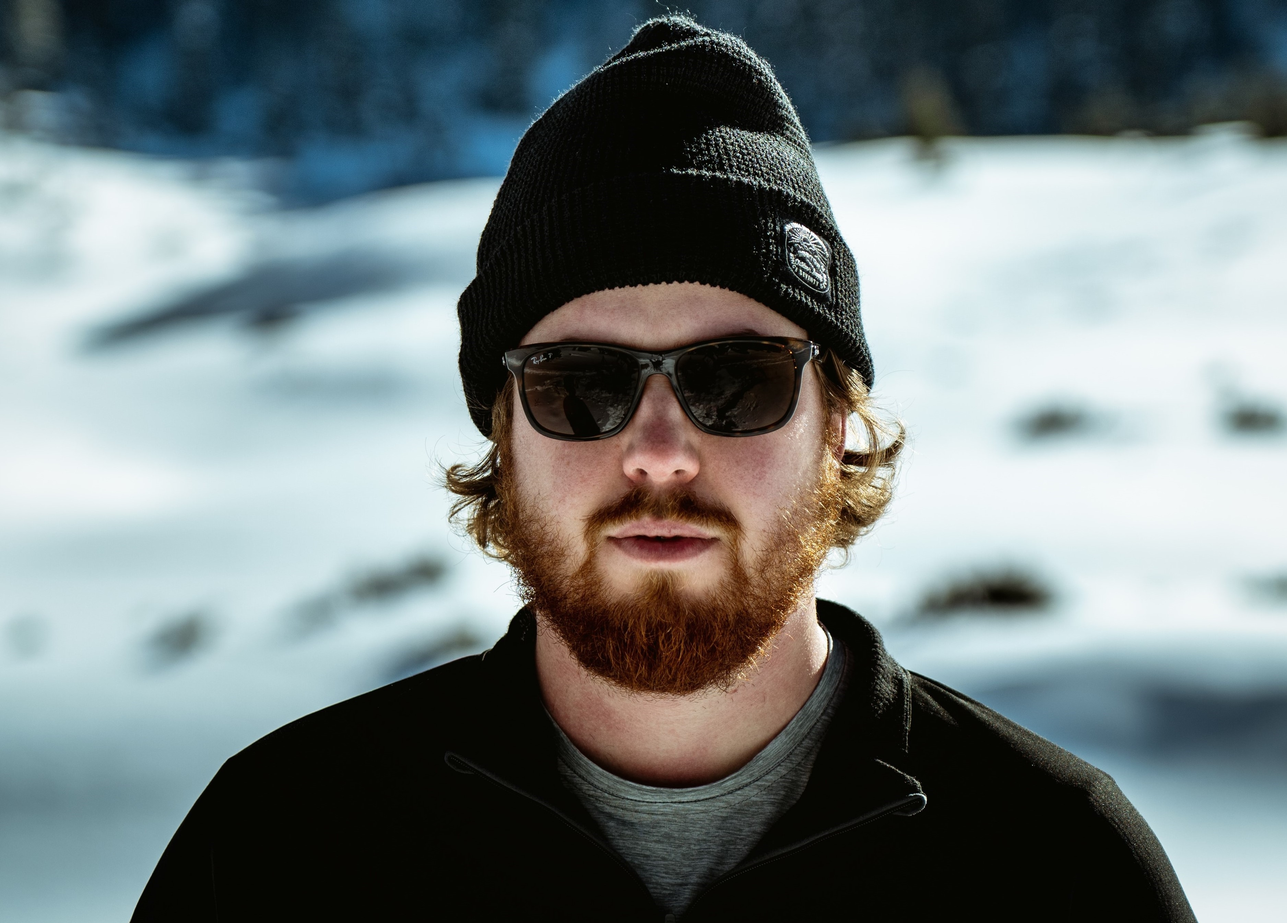
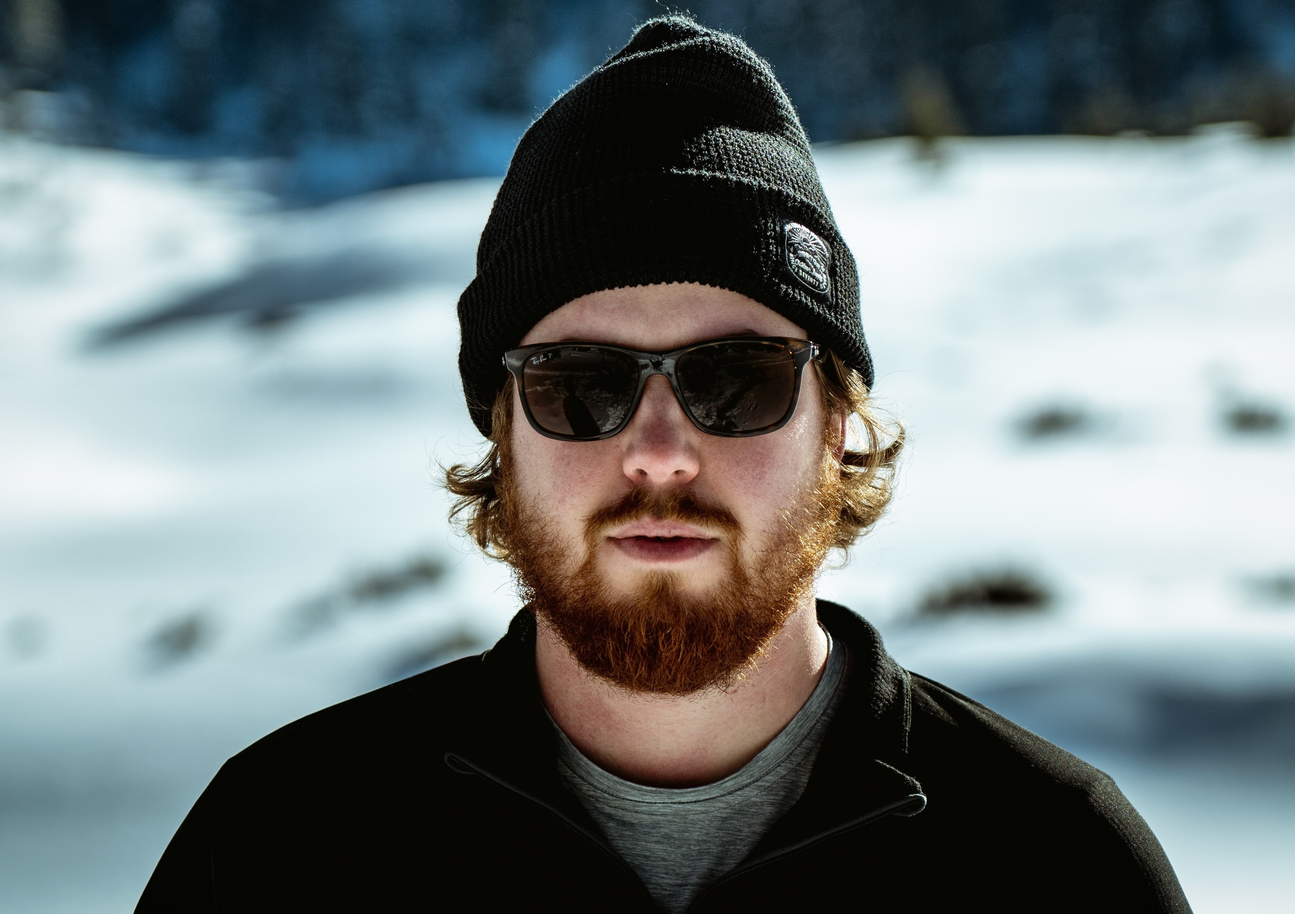
About us page update

diff --git a/CSS/style.css b/CSS/style.css
@@ -112,7 +112,7 @@ video{
 		display:none;
 	}
 	*{
-		font-size:10px !important;
+		/*font-size:10px !important;*/
 	}
 	
 	
@@ -366,7 +366,6 @@ select{
 
 /*ABOUT US */
 
-
 .hero-text2 {
 	text-align:center;
 	position:fixed;
@@ -434,6 +433,7 @@ select{
 
 .memberimages{
 	width:100%;
+	height:50%;
 	cursor: pointer;
     transition: 0.3s;
 	position:relative;
@@ -441,8 +441,35 @@ select{
     transition: .7s ease;
     backface-visibility: hidden;
 	border-radius:20px;
-
+	top:19px;
 }
+.memberimage{
+	width:100%;
+	height:50%;
+	cursor: pointer;
+    transition: 0.3s;
+	position:relative;
+    display: inline;
+    transition: .7s ease;
+    backface-visibility: hidden;
+	border-radius:20px;
+	top:40px;
+}
+.memberimagess{
+	width:100%;
+	height:50%;
+	cursor: pointer;
+    transition: 0.3s;
+	position:relative;
+    display: inline;
+    transition: .7s ease;
+    backface-visibility: hidden;
+	border-radius:20px;
+	top:-10px;
+}
+
+
+
 .memberimages:hover{
 	opacity:0.8;
 	
@@ -451,6 +478,23 @@ select{
 	opacity:0.5;
 	
 }
+.memberimage:hover{
+	opacity:0.8;
+	
+}
+.imagecolumn:hover .memberimage{
+	opacity:0.5;
+	
+}
+.memberimagess:hover{
+	opacity:0.8;
+	
+}
+.imagecolumn:hover .memberimagess{
+	opacity:0.5;
+	
+}
+
 
 .imagecolumn:hover .overlay {
 	opacity:1;
@@ -463,41 +507,87 @@ select{
     position:relative;
     bottom:200px;
 	width:90%;
-    
     text-align: center;
 }
 
 
 
-
-
 .name{
 	position:relative;
-	top:-90px;
-	left:45%;
+	top:-78px;
+	left:24%;
 	text-align:center;
     color:#FFFFFF;
-
 	background-color:rgba(0,0,0,0.5);
 	text-decoration-line: underline;
 	text-decoration-style:dotted;
 	width:50%;
-	border-radius:3px;
+	border-radius:2px;
 }
-	
-
 .role{
 	position:relative;
-	top:-116px;
-	left:45%;
+	top:-102px;
+	left:24%;
 	text-align:center;
 	text-align: justify;
     color:#FFFFFF;
 	font-size:25px;
 	background-color:rgba(0,0,0,0.5);
 	width:50%;
+	/* border-radius:4px; */
+}
+
+.tname{
+	position:relative;
+	top:-55px;
+	left:24%;
+	text-align:center;
+    color:#FFFFFF;
+	background-color:rgba(0,0,0,0.5);
+	text-decoration-line: underline;
+	text-decoration-style:dotted;
+	width:50%;
+	border-radius:2px; 
+}
+.trole{
+	position:relative;
+	top:-80px;
+	left:24%;
+	text-align:center;
+	text-align: justify;
+    color:#FFFFFF;
+	font-size:25px;
+	background-color:rgba(0,0,0,0.5);
+	width:50%;
+	/* border-radius:3.5px; */
+}
+.names{
+	position:relative;
+	top:-107px;
+	left:25%;
+	text-align:center;
+    color:#FFFFFF;
+	background-color:rgba(0,0,0,0.5);
+	text-decoration-line: underline;
+	text-decoration-style:dotted;
+	width:50%;
 	border-radius:2px;
 }
+.roles{
+	position:relative;
+	top:-132px;
+	left:25%;
+	text-align:center;
+	text-align: justify;
+    color:#FFFFFF;
+	font-size:25px;
+	background-color:rgba(0,0,0,0.5);
+	width:50%;
+	/* border-radius:3.5px; */
+}
+
+
+
 
 .info{
 	 text-align: justify;
@@ -513,6 +603,10 @@ select{
      padding: 16px 32px;
 	 cursor: pointer;
 }
+
+
+
+
 
 
 .paragraph{
@@ -569,7 +663,85 @@ select{
 	border-radius:35px;
 	border: 1px solid #000000;
     cursor: pointer;	
+	
+	
 }
+/*CHAPTER 2  PAGE*/
+.flexrow .chapterText {
+	top: auto;
+	left: auto;
+}	
+
+.chapterIntro {
+	margin-top: 92px;
+	margin-bottom: 0px;
+	font-size: 18px;
+	text-align: center;
+	
+}
+
+.chapterText{
+	position:relative;
+	top:400px;
+	left:35%;
+	font-size:19px;
+}
+
+.flexrow {
+	display: flex;
+	height: 49%;
+}
+
+.column33 {
+	flex: 33%;
+}
+article {
+	margin: 0 3.5%;
+}
+
+article section {
+	margin: 10px 6px;
+	padding: 0px 15px;
+	background-color: rgba(0, 0, 0, 0.4);
+	border: 2.5px solid #afafaf;
+	border-radius: 14px;
+	letter-spacing: 0.3px;
+}
+
+article h2 {
+	margin-top: 10px;
+	margin-bottom: 0;
+	width: 80%;
+}
+
+article p {
+	margin-top: 8px;
+}
+
+article h3 {
+	text-shadow: 1px 1px black;
+}
+
+
+
+
+
+
+
+
+
+
+
+
+
+
+
+
+
+
+
+
+
 
 /*Chapter Graphs*/
 main{

diff --git a/aboutus.html b/aboutus.html
@@ -40,7 +40,7 @@
 	   <div class="imagerow"> 
 	   
 	   <div class="imagecolumn">
-	    <img src="imageofnathaniel.png" alt= "image" class="memberimages"/>
+	    <img src="imageofnathaniel.jpg" alt= "image" class="memberimages"/>
 		<h1 class="name">Nathaniel </h1>
 		<p class="role">Backend Developer</p>
 		
@@ -51,10 +51,10 @@
 	   </div>
 	   </div>
 	   
-	   <div class="imagecolumn one">
-	    <img src="imageofthiruisa.png" alt= "image" class="memberimages"/>
-		<h1 class="name">Thiruisa</h1>
-		<p class="role">Frontend Developer</p>
+	   <div class="imagecolumn">
+	    <img src="imageofthiruisa.jpg" alt= "image" class="memberimagess"/>
+	    <h1 class="names">Thiruisa</h1>
+		<p class="roles">Frontend Developer</p>
 		
 		<div class="overlay">
 		<p class="info">Thiruisa is the Frontend Developer of the CMP website 
@@ -63,9 +63,9 @@
 	   </div>
 	   
 	   <div class="imagecolumn">
-	    <img src="imageoftendai.png" alt= "image" class="memberimages"/>
-		<h1 class="name">Tendai </h1>
-		<p class="role">Frontend Developer</p>
+	    <img src="imageoftendai.jpg" alt= "image" class="memberimage"/>
+		<h1 class="tname">Tendai </h1>
+		<p class="trole">Frontend Developer</p>
 		
 		<div class="overlay">
 		<p class="info">Tendai is the Frontend Developer of the CMP website and is
@@ -85,7 +85,7 @@
 	</div>
 	
 	
-	 <p class = "paragraph">Our mission at the CMP is to deliver a comprehensive look at the newly published CCC report. Our aim is to inform the public about the changes
+	<!--  <p class = "paragraph">Our mission at the CMP is to deliver a comprehensive look at the newly published CCC report. Our aim is to inform the public about the changes
 	 to the environment in the UK and the EU and what is currently being done to improve the situation and what is being neglected. We hope to create an informative 
 	 website that will allow our users to view the data in the CCC report impartially. We have condensed the 4 Chapters of the report into 4 simple and intuitive web pages 
 	 for you to view. We provide information about Chapter 1: Progress in Reducing Emissions and what steps have been made globally to demonstrate a reduction of carbon emissions.</p>
@@ -98,7 +98,7 @@
 	 
 
 	<button class="contactusbutton" onclick = "window.location.href='ContactUs.html'">CONTACT US</button>
-	
+	 -->
 	</div>
   </div>
   
